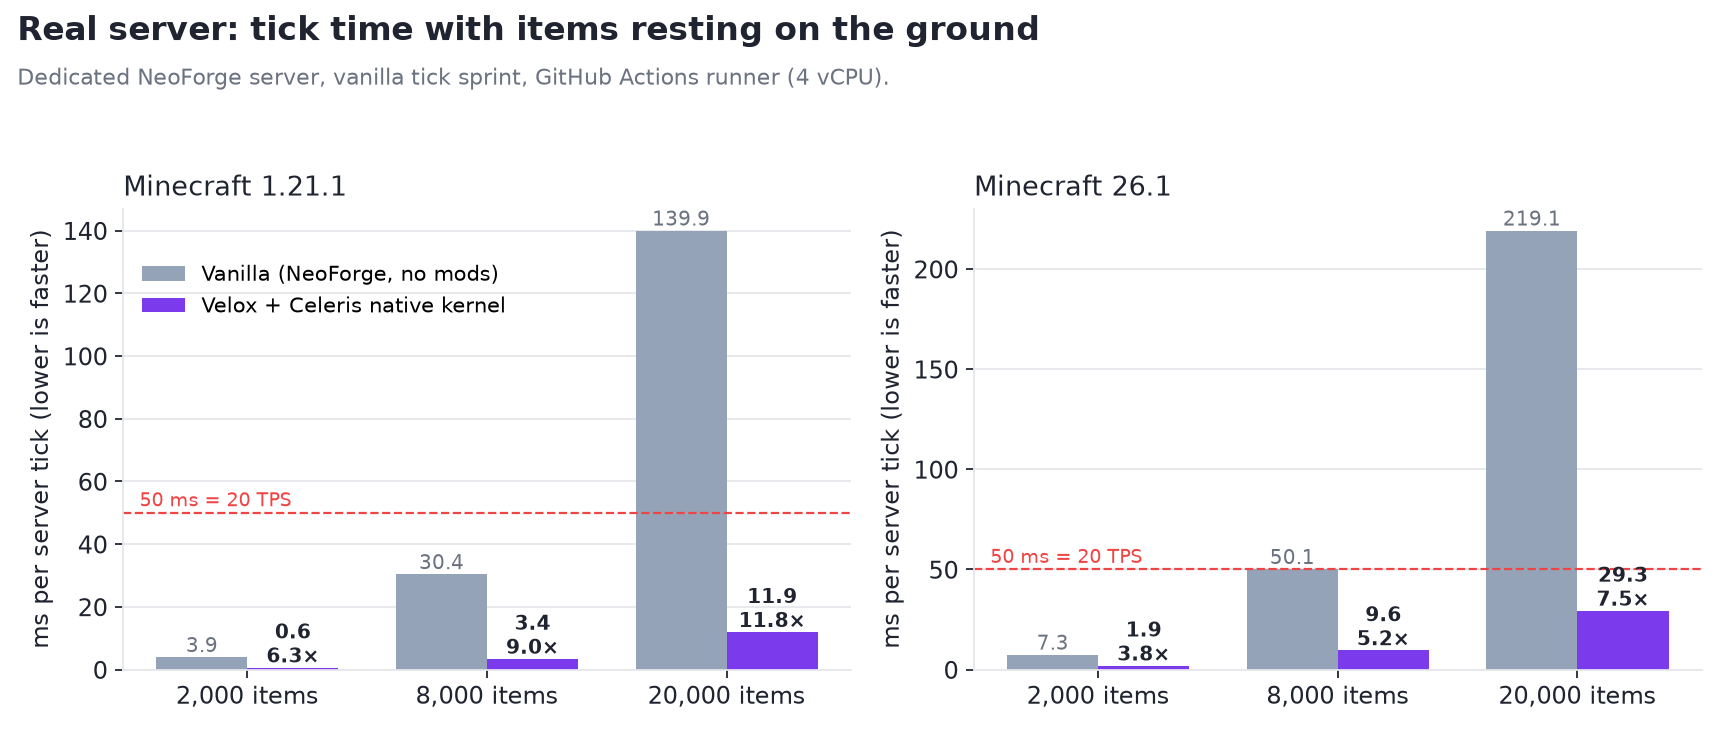
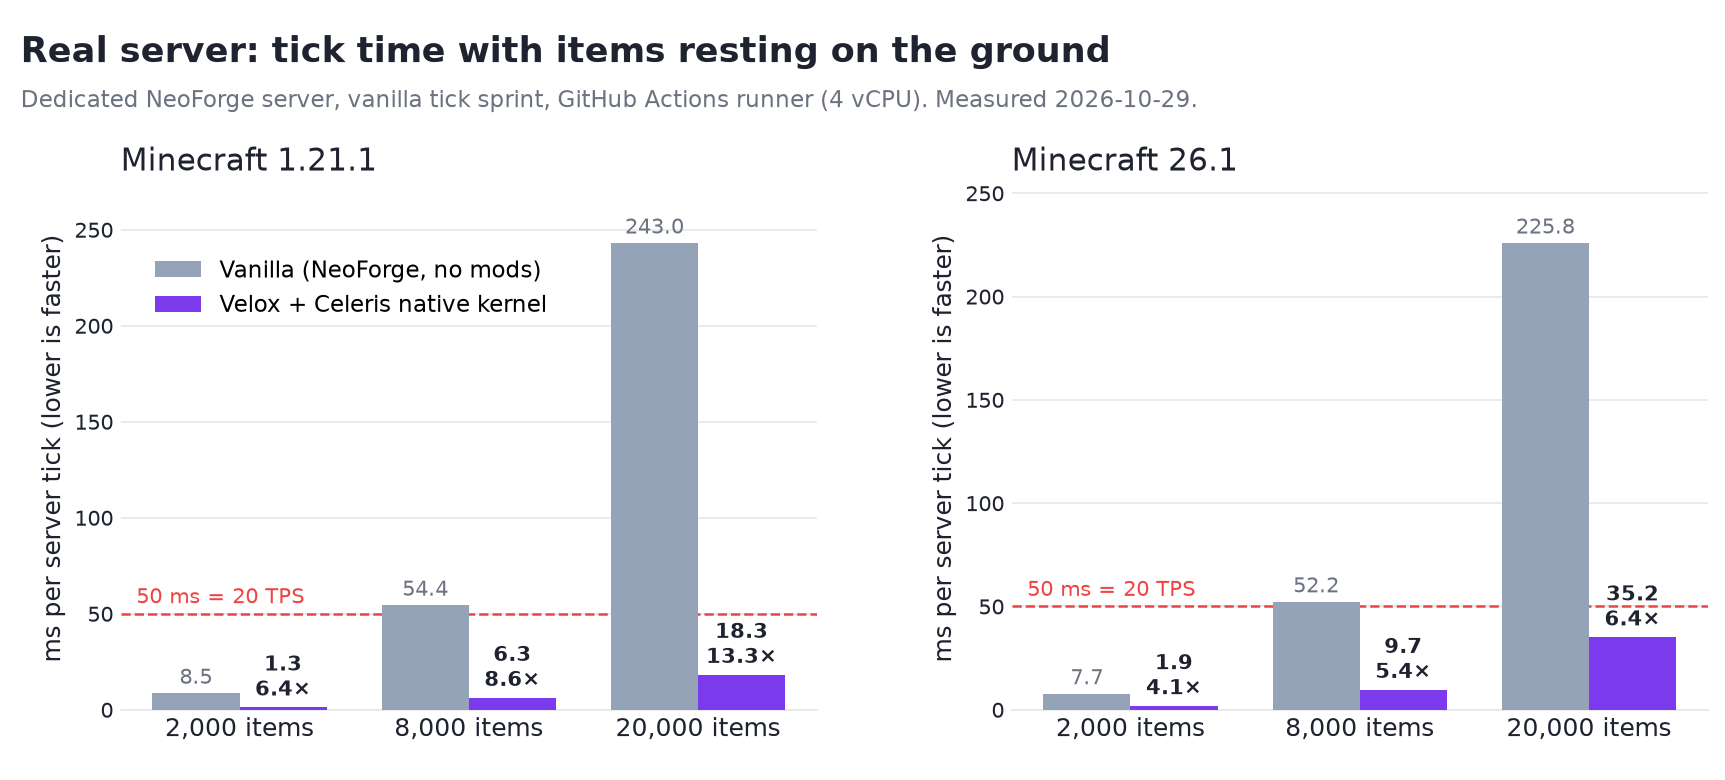
Benchmarks: new real-server chart (2026-10-29)

diff --git a/docs/wiki/Benchmarks.md b/docs/wiki/Benchmarks.md
@@ -41,7 +41,7 @@ A dedicated NeoForge server on a GitHub Actions runner (4 vCPU), flat world, N s
 reports the average milliseconds per tick: *falling* is the first 80 ticks after the throw, *resting* 1,200 ticks
 later with everything on the ground. Milliseconds per tick, lower is better; 50 ms is the 20 TPS budget. Re-measured on
 2026-10-29 with Celeris and Velox at `main` (GitHub run `bichal/BichalBuildLogic` 40922919248), one run per cell on a
-shared runner, so read differences under ~20 % as a tie; the chart above still shows the 2026-10-08 run:
+shared runner, so read differences under ~20 % as a tie:
 
 | Minecraft | Items | Vanilla falling / resting | Velox (native kernel) falling / resting | Speed-up |
 |---|---|---|---|---|
